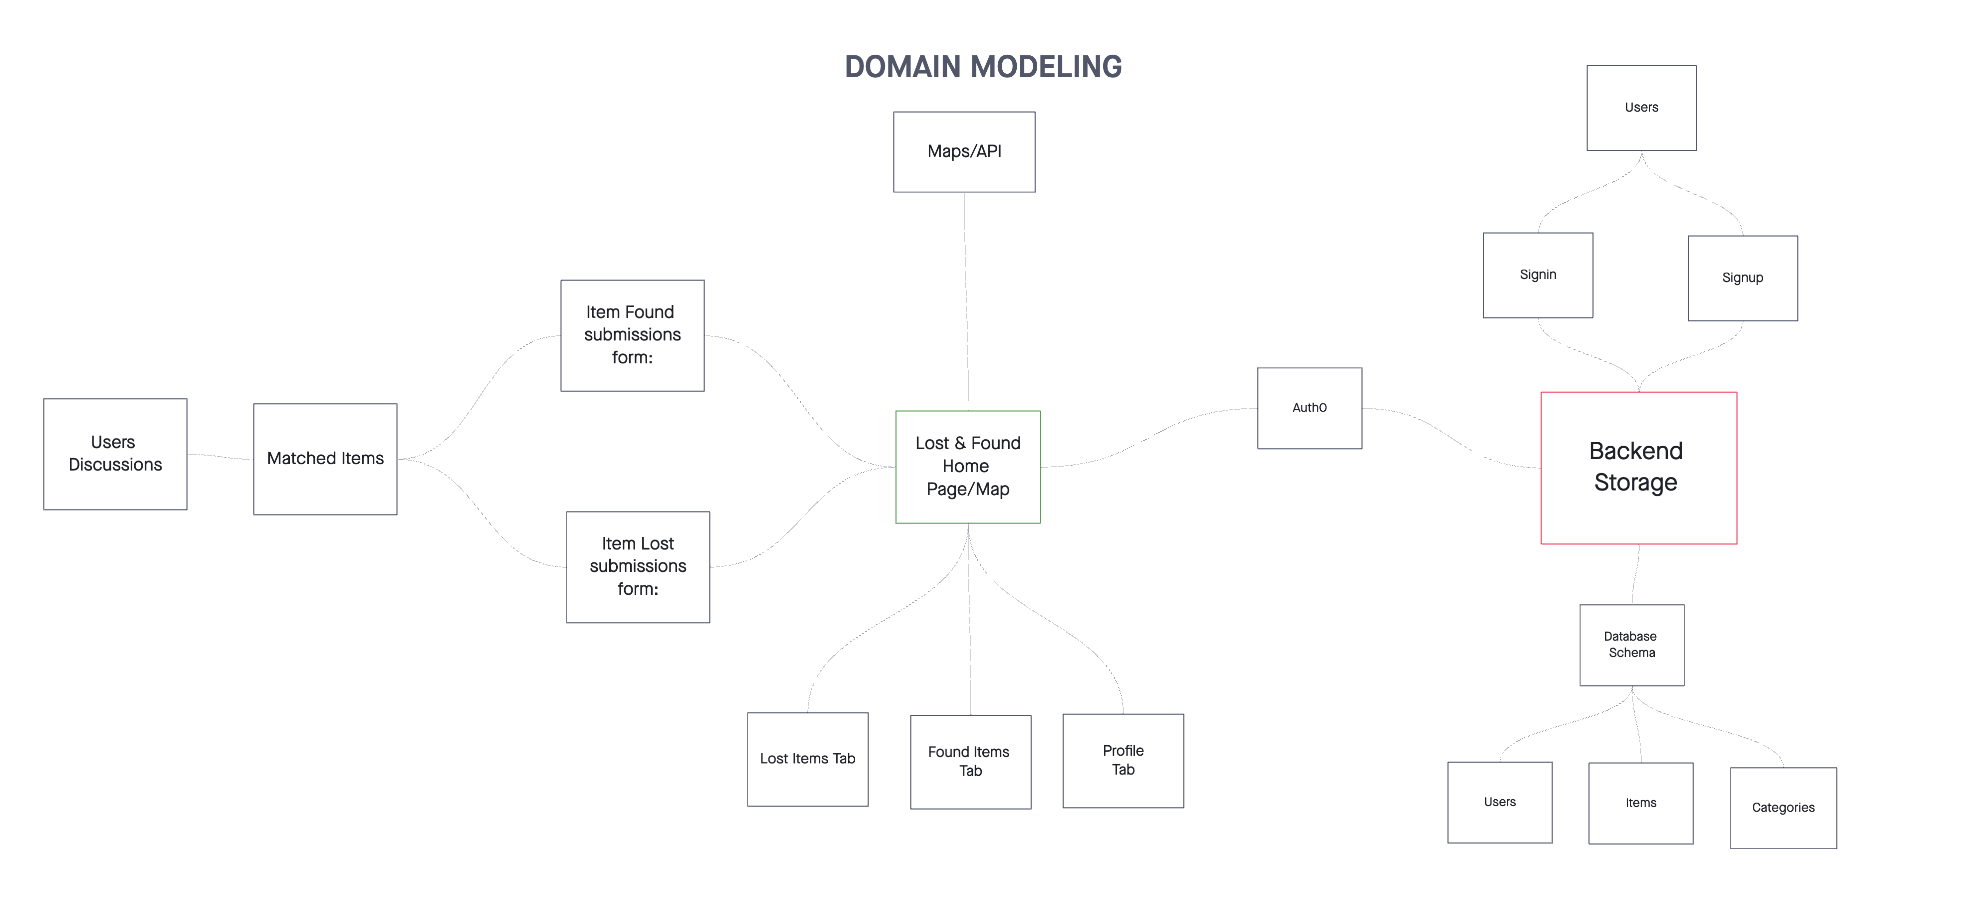
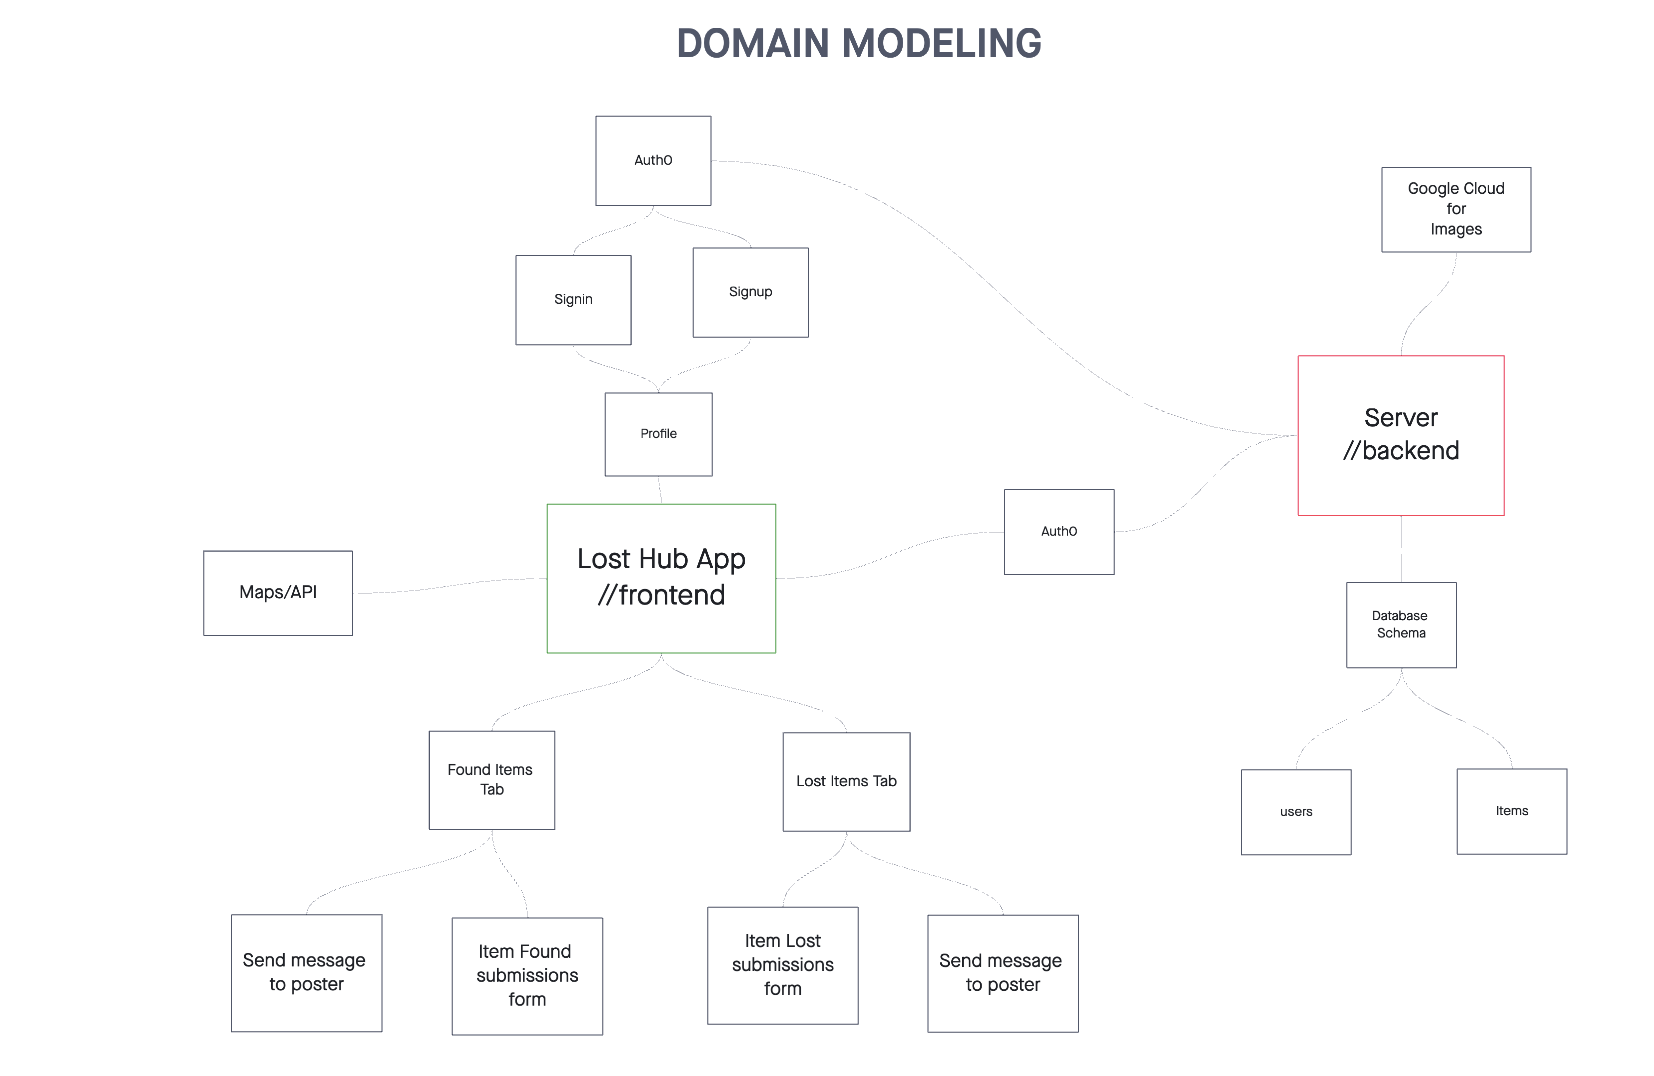
updated readme

diff --git a/README.md b/README.md
@@ -1,12 +1,36 @@
-# Team LostHub
+# LostHub Server
 
-Adnan Mohamud, Ekaterina Khoroshilova, David Danilchik, Chester Lee Coloma
+![Lost Hub Logo](./assets/lost-hub-logo.png)
 
-## LostHub
+**Authors**:
 
-Summary of Idea:
+- [Adnan Mohamud](https://github.com/adnanm123)
+- [Chester Lee Coloma](https://github.com/cleecoloma)
+- [David Danilchik](https://github.com/Arkuris)
+- [Ekaterina Khoroshilova](https://github.com/KatKho)
 
-- The Lost & Found app streamlines reporting and finding lost items, offering a user-friendly platform to report and retrieve belongings efficiently. It addresses the inconvenience of traditional lost and found systems by providing a centralized digital solution.
+## Overview
+
+The Lost & Found app streamlines reporting and finding lost items, offering a user-friendly platform to report and retrieve belongings efficiently. It addresses the inconvenience of traditional lost and found systems by providing a centralized digital solution.
+
+## Getting Started
+
+To get the LostHub frontend up and running on your machine, follow these instructions:
+
+1. **Clone the Repository**: `git clone https://github.com/lost-hub-app/lost-hub-frontend.git`
+2. **Navigate to the Project Directory**: `cd lost-hub-frontend`
+3. **Install Dependencies**: Run `npm install` to install the required dependencies.
+4. **Configure Environment Variables**:
+   - Rename the `.env.sample` file to `.env`.
+   - Update SERVER_URL in the `.env` file with Server URL or if running on local use `http://localhost:3001`.
+   - Update VITE_GOOGLE_MAPS_API_KEY in the `.env` file with Google Maps API Key.
+   - Update VITE_AUTH_DOMAIN in the `.env` file with a Auth Domain from Auth0.
+   - Update VITE_AUTH_CLIENT_ID in the `.env` file with Auth Client ID from Auth0.
+6. **Launch the Express Server**: Run `npm start` or `npm run dev`.
+7. **Access the Application**: Open your web browser and go to the provided URL (typically `http://localhost:5137`).
+
+## Domain Modeling
+![Domain Modeling](./assets/domain-modeling.png)
 
 ## Project Management Board
 
@@ -16,10 +40,26 @@ Summary of Idea:
 
 ![Wireframe](./assets/wireframe.png)
 
-## Domain Modeling
+## Architecture
 
-![Domain Modeling](./assets/domain-modeling.png)
+LostHub is structured using the MERN stack:
 
-## Database Schema Diagram
+- **Front-end**: Create with React and uses Axios, which handles HTTP requests and communicates with the Lost Hub Server.
+- **API**: Utilizes Google Maps API to display lost and found items.
 
-![Database Schema Diagram](./assets/database-schema.png)
+## License
+
+LostHub is licensed under the [MIT License](./LICENSE). Feel free to use, modify, and distribute the code as per the terms of the license.
+
+## Support
+
+For any issues or questions, please [open a new issue](https://github.com/lost-hub-app/lost-hub-backend/issues) on GitHub. We appreciate your feedback!
+
+## Acknowledgments
+
+Special thanks to:
+
+- Jacob Knaack
+- ChatGPT
+- Bard
+- Slidesgo
